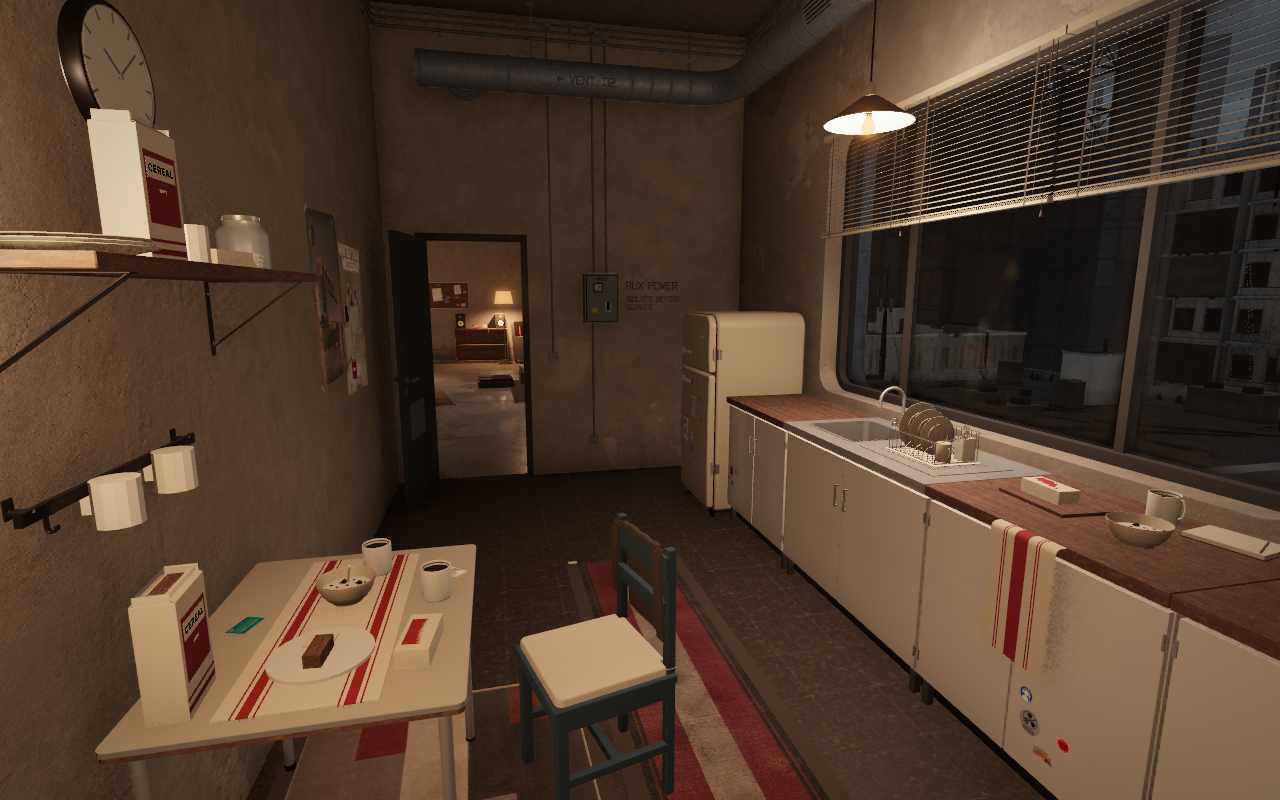
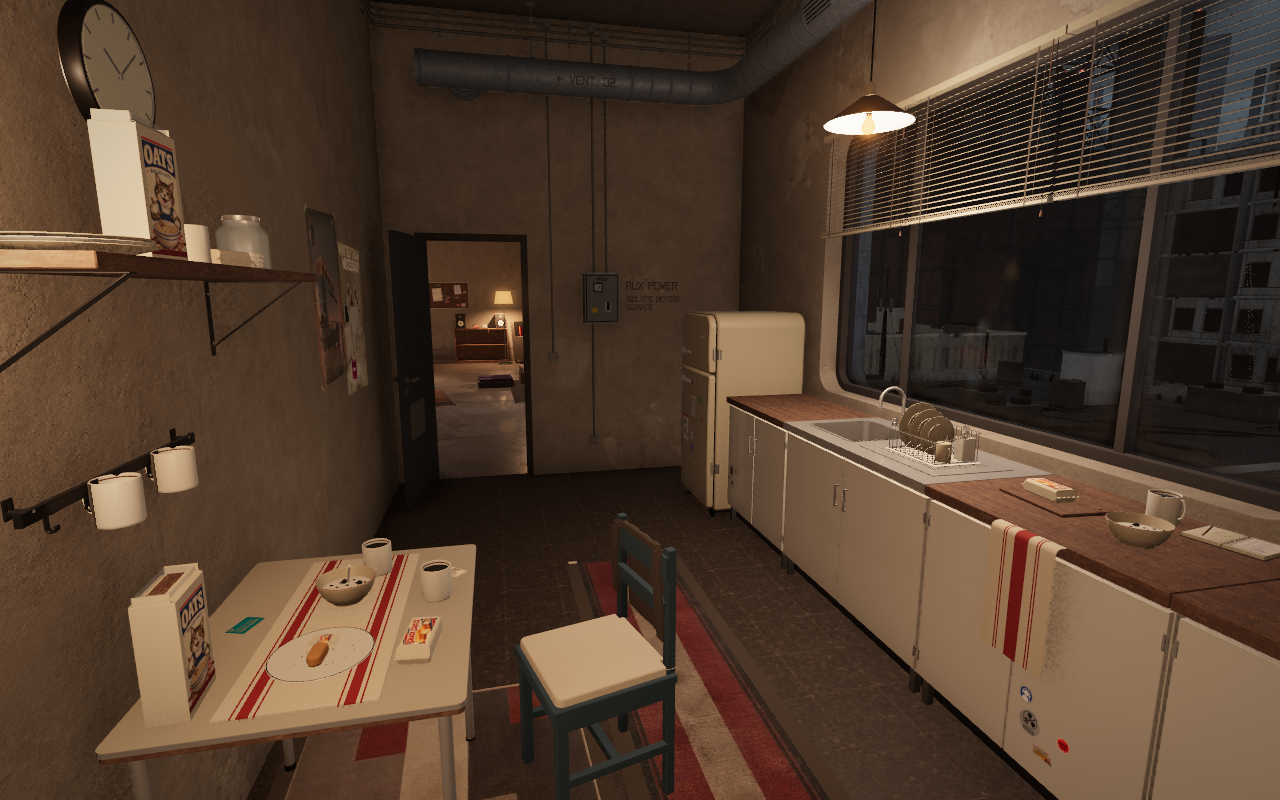
Show the finished coffee kitchen and actual pantry art

diff --git a/concepts/kitchen-comfort-2026-10-09/index.html b/concepts/kitchen-comfort-2026-10-09/index.html
@@ -26,8 +26,8 @@
   <p>Vibe collected and repaired this room herself. These concepts add places to settle in, useful rescued storage, illustrated pantry packs and traces of two girls sharing their daily life.</p>
   <p class="hint">Placement rule for every direction: furnishings find suitable walls and floor space; loose items choose compatible worktops, dining surfaces, shelves and hooks. Changing the room layout must repack them onto the available surfaces. The pictures describe the mood and useful groups, rather than fixed object coordinates.</p>
   <div class="notice">
-    <p><strong>Approved direction: #2, the coffee hangout.</strong> The blockout and finished furniture/fixture stages are published. Only shelf-stable food and drinks belong here: rolled oats, coffee, powdered non-dairy creamer, sugar packets and wrapped long-life cakes.</p>
-    <p class="hint">The room is assembled from rescued furniture, with padded mismatched chairs, repaired cupboards, manual blinds, a finished sink and personal paper/sticker groups. The pantry labels and small tabletop items are being finalized next.</p>
+    <p><strong>Approved direction: #2, the coffee hangout.</strong> The blockout, furniture, fixture and pantry stages are published. All42 kitchen prop types now have finished art. Only shelf-stable food and drinks belong here: rolled oats, coffee, powdered non-dairy creamer, sugar packets and wrapped long-life cakes.</p>
+    <p class="hint">The room is assembled from rescued furniture, with padded mismatched chairs, repaired cupboards, manual blinds, a finished sink and personal paper/sticker groups. Illustrated pantry labels, empty stored cups and a coffee-stained notebook complete the pass. The shared texture atlas uses the same GPU memory, with about225KiB more compressed download.</p>
     <p><a href="https://lcs-rooms.up.railway.app/?t=19">Open the live kitchen</a> · <a href="../../props/?item=kitchen-sink-unit">Inspect the catalog models</a></p>
   </div>
   <nav aria-label="Concept directions">
@@ -38,10 +38,18 @@
     <a href="#critic">Current-room critique</a>
   </nav>
   <section id="progress">
-    <h2>Latest 3D progress · furniture and fixtures</h2>
-    <p>The sink, cabinets, mismatched chairs, table, blue steel locker, horizontal blinds, lights, clock, tiled splashback and pedal bin now have finished art. Loose objects still choose suitable surfaces automatically; window fittings follow the opening.</p>
+    <h2>Finished 3D room · 42 prop types</h2>
+    <p>Finished cupboards, padded mismatched chairs, table, sink and drainer, blue steel locker, horizontal blinds, lights, clock, tiles and bin sit alongside illustrated oats, coffee, creamer, sugar packets, long-life snacks and personal tabletop details. Loose objects still choose suitable surfaces automatically; window fittings follow the opening.</p>
     <figure><a href="progress-a.png"><img src="progress-a.png" alt="Latest native 3D coffee kitchen from the entrance with finished sink, furniture, rescued blue locker and manual blinds." width="1280" height="800" fetchpriority="high"></a><figcaption>3D implementation · 9 October · entrance view.</figcaption></figure>
     <figure><a href="progress-b.png"><img src="progress-b.png" alt="Opposing native 3D kitchen view with tied blue seat cushion, draped cardigan, finished sink and partly raised horizontal blinds." width="1280" height="800" loading="lazy"></a><figcaption>3D implementation · opposing view.</figcaption></figure>
+  </section>
+  <section id="details">
+    <h2>Everyday coffee and leftovers</h2>
+    <p>The partly eaten cake has crumbs and its discarded wrapper. The mugs being used contain coffee; the mugs on the wall rail and shelves are hollow and empty. The pitcher is empty equipment for mixing powdered non-dairy creamer. There are no fresh foods or plants.</p>
+    <figure><a href="final-coffee.png"><img src="final-coffee.png" alt="Finished analog espresso station with coffee grinder, real sugar packet art, powdered non-dairy creamer, espresso cups, mixing pitcher and tamper." width="1280" height="800" loading="lazy"></a><figcaption>Finished coffee station · native 3D capture.</figcaption></figure>
+    <figure><a href="final-table.png"><img src="final-table.png" alt="Rescued kitchen table with padded red and blue chairs, illustrated rolled oats, used coffee mugs, snack cakes, crumbs and wrapper." width="1280" height="800" loading="lazy"></a><figcaption>Breakfast and conversation table · native 3D capture.</figcaption></figure>
+    <figure><a href="final-printed-art.png"><img src="final-printed-art.png" alt="The actual six shared-atlas printed designs: illustrated oats, photographic coffee, powdered non-dairy creamer, long-life snack cakes, sugar packets and a handwritten coffee supply list." width="900" height="800" loading="lazy"></a><figcaption>Actual package/page artwork · existing2048×4096 atlas,1.6px/mm; all286 previous art tiles preserved.</figcaption></figure>
+    <p class="hint">Automatic kitchen comfort check:12/14. Visual comfort judgment:7.5/10, up from5.5/10 for the original room. The automatic score does not measure the quality of sink construction, padded seams, real package art or personal details. The pass was reviewed on the native RTX5090 at noon, evening and night in low, medium and high settings.</p>
   </section>
   <section id="breakfast">
     <h2>1 · Borrowed breakfast nook <span class="score">8.5/10</span></h2>
